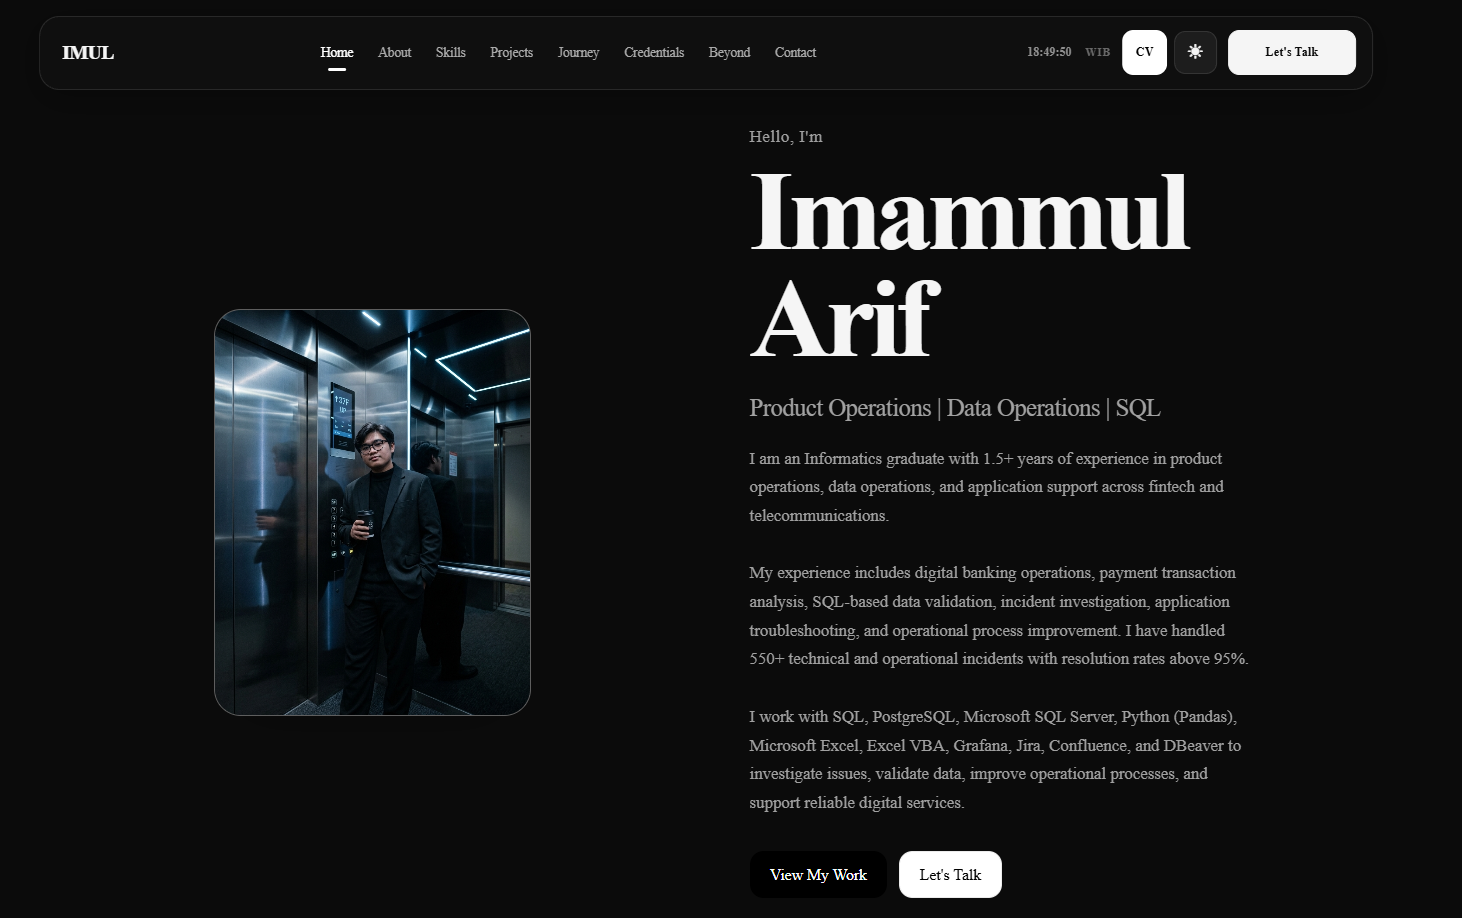
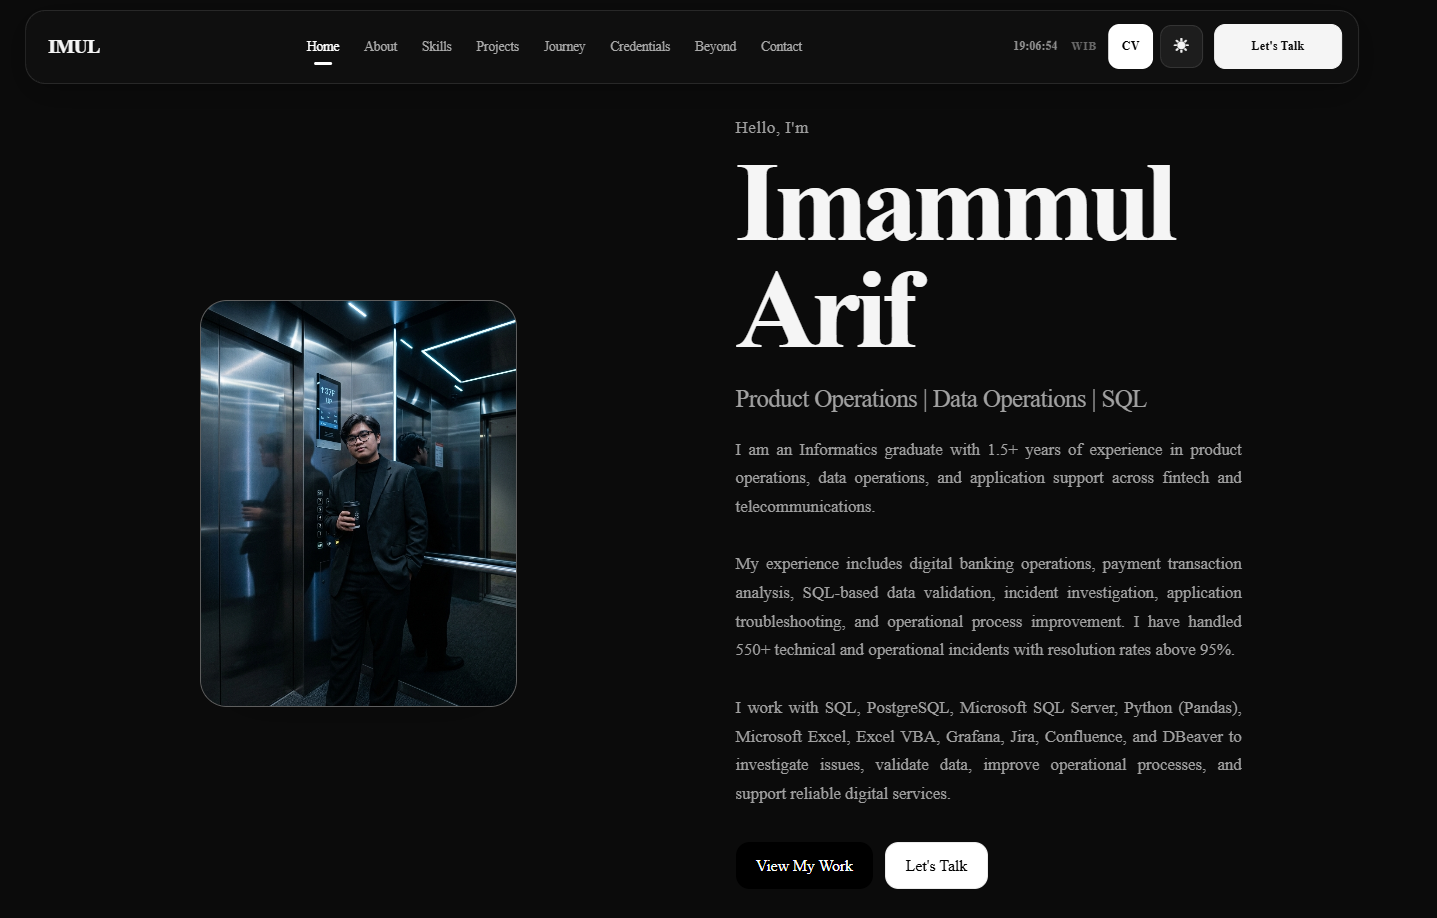
ADD Justify

diff --git a/index.css b/index.css
@@ -1429,6 +1429,8 @@ body.dark-mode .header-cta:hover {
   font-size: 15px;
 
   line-height: 1.7;
+
+  text-align: justify;
 }
 
 
@@ -1710,6 +1712,7 @@ body.dark-mode .header-cta:hover {
 
 .about-text {
   max-width: 600px;
+  text-align: justify;
 }
 
 
@@ -1736,6 +1739,8 @@ body.dark-mode .header-cta:hover {
   font-weight: 500;
 
   letter-spacing: -0.3px;
+
+
 }
 
 
@@ -2088,6 +2093,8 @@ body.dark-mode .header-cta:hover {
   font-size: 14px;
 
   line-height: 1.7;
+
+  text-align: justify;
 }
 
 
@@ -2468,6 +2475,8 @@ body.dark-mode .header-cta:hover {
   font-size: 14px;
 
   line-height: 1.7;
+
+  text-align: justify;
 }
 
 
@@ -2869,6 +2878,8 @@ body.dark-mode .header-cta:hover {
   font-size: 14px;
 
   line-height: 1.7;
+
+  text-align: justify;
 }
 
 
@@ -3052,6 +3063,8 @@ body.dark-mode .header-cta:hover {
   font-size: 15px;
 
   line-height: 1.7;
+
+  text-align: justify;
 }
 
 
@@ -4251,6 +4264,8 @@ body.dark-mode .header-cta:hover {
   font-size: 16px;
   line-height: 1.8;
   color: #737373;
+
+  text-align: justify;
 }
 
 
@@ -4655,6 +4670,8 @@ body.dark-mode .menu-toggle span {
   font-size: 16px;
   line-height: 1.8;
   color: #737373;
+
+  text-align: justify;
 }
 
 
@@ -4762,6 +4779,7 @@ body.dark-mode .menu-toggle span {
   font-size: 14px;
   line-height: 1.7;
   color: #737373;
+  text-align: justify;
 }
 
 .beyond-card:hover .beyond-icon {
@@ -4851,6 +4869,7 @@ body.dark-mode .beyond-card-content p {
   .beyond-description {
     font-size: 14px;
     line-height: 1.7;
+    text-align: justify;
   }
 
   .beyond-grid {
